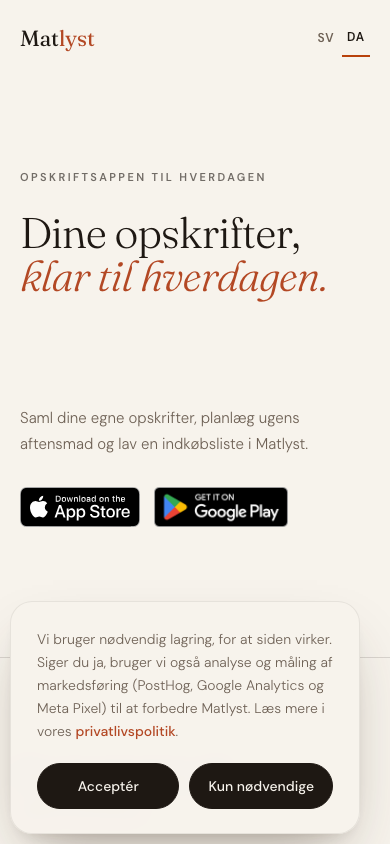
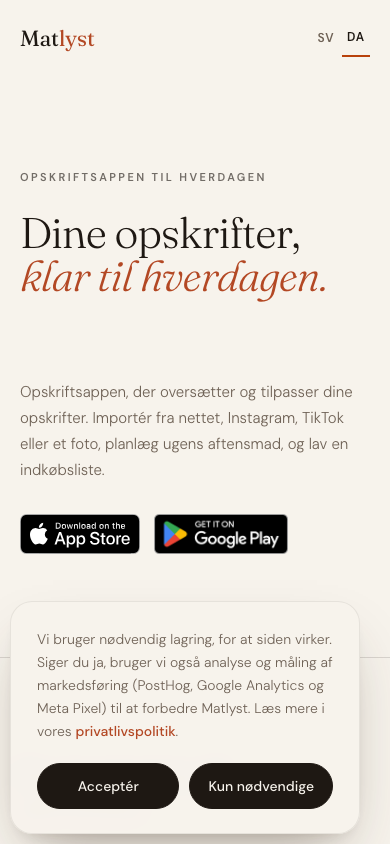
feat(landing): posisjonering på forsidene (nb, sv, da)
«Oppskriftsappen som oversetter og tilpasser oppskriftene dine» i ingress
og meta description, med naturlig tekst på svensk og dansk. Ingen
superlativer. Test for posisjonering og superlativer.

Claude-Session: https://claude.ai/code/session_014fDBte4NAnwCmAoPEN8Ebz

Changed region(s): [[0.0308, 0.4621, 0.8923, 0.6777]]

diff --git a/da/index.html b/da/index.html
@@ -4,28 +4,28 @@
 <meta charset="UTF-8">
 <meta name="viewport" content="width=device-width, initial-scale=1.0">
 <title>Opskriftsapp til hverdagen | Matlyst Danmark</title>
-<meta name="description" content="Saml dine egne opskrifter, planlæg ugens aftensmad og lav en indkøbsliste i Matlyst.">
+<meta name="description" content="Opskriftsappen, der oversætter og tilpasser dine opskrifter. Importér fra nettet, Instagram, TikTok eller et foto, planlæg ugens aftensmad, og lav en indkøbsliste.">
 <meta name="robots" content="index, follow">
 <link rel="canonical" href="https://matlyst-app.no/da/">
 <link rel="alternate" hreflang="sv-SE" href="https://matlyst-app.no/sv/">
 <link rel="alternate" hreflang="da-DK" href="https://matlyst-app.no/da/">
 <meta name="theme-color" content="#F7F3EC">
 <meta property="og:title" content="Opskriftsapp til hverdagen | Matlyst Danmark">
-<meta property="og:description" content="Saml dine egne opskrifter, planlæg ugens aftensmad og lav en indkøbsliste i Matlyst.">
+<meta property="og:description" content="Opskriftsappen, der oversætter og tilpasser dine opskrifter. Importér fra nettet, Instagram, TikTok eller et foto, planlæg ugens aftensmad, og lav en indkøbsliste.">
 <meta property="og:image" content="https://matlyst-app.no/images/og.jpg">
-<meta property="og:image:alt" content="Saml dine egne opskrifter, planlæg ugens aftensmad og lav en indkøbsliste i Matlyst.">
+<meta property="og:image:alt" content="Opskriftsappen, der oversætter og tilpasser dine opskrifter. Importér fra nettet, Instagram, TikTok eller et foto, planlæg ugens aftensmad, og lav en indkøbsliste.">
 <meta property="og:url" content="https://matlyst-app.no/da/">
 <meta property="og:type" content="website">
 <meta property="og:site_name" content="Matlyst">
 <meta property="og:locale" content="da_DK">
 <meta name="twitter:card" content="summary_large_image">
 <meta name="twitter:title" content="Opskriftsapp til hverdagen | Matlyst Danmark">
-<meta name="twitter:description" content="Saml dine egne opskrifter, planlæg ugens aftensmad og lav en indkøbsliste i Matlyst.">
+<meta name="twitter:description" content="Opskriftsappen, der oversætter og tilpasser dine opskrifter. Importér fra nettet, Instagram, TikTok eller et foto, planlæg ugens aftensmad, og lav en indkøbsliste.">
 <meta name="twitter:image" content="https://matlyst-app.no/images/og.jpg">
-<meta name="twitter:image:alt" content="Saml dine egne opskrifter, planlæg ugens aftensmad og lav en indkøbsliste i Matlyst.">
+<meta name="twitter:image:alt" content="Opskriftsappen, der oversætter og tilpasser dine opskrifter. Importér fra nettet, Instagram, TikTok eller et foto, planlæg ugens aftensmad, og lav en indkøbsliste.">
 <link rel="icon" type="image/png" href="/images/icon.png">
 <link rel="stylesheet" href="/styles.css">
-<script type="application/ld+json">{"@context":"https://schema.org","@type":"SoftwareApplication","name":"Matlyst","applicationCategory":"LifestyleApplication","operatingSystem":"iOS, Android","description":"Saml dine egne opskrifter, planlæg ugens aftensmad og lav en indkøbsliste i Matlyst.","url":"https://matlyst-app.no/da/"}</script>
+<script type="application/ld+json">{"@context":"https://schema.org","@type":"SoftwareApplication","name":"Matlyst","applicationCategory":"LifestyleApplication","operatingSystem":"iOS, Android","description":"Opskriftsappen, der oversætter og tilpasser dine opskrifter. Importér fra nettet, Instagram, TikTok eller et foto, planlæg ugens aftensmad, og lav en indkøbsliste.","url":"https://matlyst-app.no/da/"}</script>
 <script src="/locale.js"></script>
 </head><body data-locale="da">
 <a class="skip-link" href="#hovedinnhold">Spring til indholdet</a>
@@ -43,7 +43,7 @@
 <header class="hero locale-home-hero" data-section="hero">
   <div><p class="eyebrow hero-eyebrow">Opskriftsappen til hverdagen</p>
   <h1 class="disp">Dine opskrifter,<br><span class="it">klar til hverdagen.</span></h1></div>
-  <div class="hero-side"><p class="lead">Saml dine egne opskrifter, planlæg ugens aftensmad og lav en indkøbsliste i Matlyst.</p><div class="store-badges">
+  <div class="hero-side"><p class="lead">Opskriftsappen, der oversætter og tilpasser dine opskrifter. Importér fra nettet, Instagram, TikTok eller et foto, planlæg ugens aftensmad, og lav en indkøbsliste.</p><div class="store-badges">
 <a class="btn-store" href="https://apps.apple.com/dk/app/matlyst/id6762563515" rel="noopener"><img src="/images/appstore-badge.svg" alt="Download on the App Store"></a>
 <a class="btn-store" href="https://play.google.com/store/apps/details?id=app.matlyst&hl=da&gl=DK" rel="noopener"><img src="/images/googleplay-badge-en.png" alt="Get it on Google Play"></a>
 </div></div>

diff --git a/sv/index.html b/sv/index.html
@@ -4,28 +4,28 @@
 <meta charset="UTF-8">
 <meta name="viewport" content="width=device-width, initial-scale=1.0">
 <title>Receptapp för vardagen | Matlyst Sverige</title>
-<meta name="description" content="Samla egna recept, planera veckans middagar och gör en inköpslista i Matlyst.">
+<meta name="description" content="Receptappen som översätter och anpassar dina recept. Importera från webben, Instagram, TikTok eller ett foto, planera veckans middagar och gör en inköpslista.">
 <meta name="robots" content="index, follow">
 <link rel="canonical" href="https://matlyst-app.no/sv/">
 <link rel="alternate" hreflang="sv-SE" href="https://matlyst-app.no/sv/">
 <link rel="alternate" hreflang="da-DK" href="https://matlyst-app.no/da/">
 <meta name="theme-color" content="#F7F3EC">
 <meta property="og:title" content="Receptapp för vardagen | Matlyst Sverige">
-<meta property="og:description" content="Samla egna recept, planera veckans middagar och gör en inköpslista i Matlyst.">
+<meta property="og:description" content="Receptappen som översätter och anpassar dina recept. Importera från webben, Instagram, TikTok eller ett foto, planera veckans middagar och gör en inköpslista.">
 <meta property="og:image" content="https://matlyst-app.no/images/og.jpg">
-<meta property="og:image:alt" content="Samla egna recept, planera veckans middagar och gör en inköpslista i Matlyst.">
+<meta property="og:image:alt" content="Receptappen som översätter och anpassar dina recept. Importera från webben, Instagram, TikTok eller ett foto, planera veckans middagar och gör en inköpslista.">
 <meta property="og:url" content="https://matlyst-app.no/sv/">
 <meta property="og:type" content="website">
 <meta property="og:site_name" content="Matlyst">
 <meta property="og:locale" content="sv_SE">
 <meta name="twitter:card" content="summary_large_image">
 <meta name="twitter:title" content="Receptapp för vardagen | Matlyst Sverige">
-<meta name="twitter:description" content="Samla egna recept, planera veckans middagar och gör en inköpslista i Matlyst.">
+<meta name="twitter:description" content="Receptappen som översätter och anpassar dina recept. Importera från webben, Instagram, TikTok eller ett foto, planera veckans middagar och gör en inköpslista.">
 <meta name="twitter:image" content="https://matlyst-app.no/images/og.jpg">
-<meta name="twitter:image:alt" content="Samla egna recept, planera veckans middagar och gör en inköpslista i Matlyst.">
+<meta name="twitter:image:alt" content="Receptappen som översätter och anpassar dina recept. Importera från webben, Instagram, TikTok eller ett foto, planera veckans middagar och gör en inköpslista.">
 <link rel="icon" type="image/png" href="/images/icon.png">
 <link rel="stylesheet" href="/styles.css">
-<script type="application/ld+json">{"@context":"https://schema.org","@type":"SoftwareApplication","name":"Matlyst","applicationCategory":"LifestyleApplication","operatingSystem":"iOS, Android","description":"Samla egna recept, planera veckans middagar och gör en inköpslista i Matlyst.","url":"https://matlyst-app.no/sv/"}</script>
+<script type="application/ld+json">{"@context":"https://schema.org","@type":"SoftwareApplication","name":"Matlyst","applicationCategory":"LifestyleApplication","operatingSystem":"iOS, Android","description":"Receptappen som översätter och anpassar dina recept. Importera från webben, Instagram, TikTok eller ett foto, planera veckans middagar och gör en inköpslista.","url":"https://matlyst-app.no/sv/"}</script>
 <script src="/locale.js"></script>
 </head><body data-locale="sv">
 <a class="skip-link" href="#hovedinnhold">Hoppa till innehållet</a>
@@ -43,7 +43,7 @@
 <header class="hero locale-home-hero" data-section="hero">
   <div><p class="eyebrow hero-eyebrow">Receptappen för vardagen</p>
   <h1 class="disp">Recepten du sparar,<br><span class="it">klara för vardagen.</span></h1></div>
-  <div class="hero-side"><p class="lead">Samla egna recept, planera veckans middagar och gör en inköpslista i Matlyst.</p><div class="store-badges">
+  <div class="hero-side"><p class="lead">Receptappen som översätter och anpassar dina recept. Importera från webben, Instagram, TikTok eller ett foto, planera veckans middagar och gör en inköpslista.</p><div class="store-badges">
 <a class="btn-store" href="https://apps.apple.com/se/app/matlyst/id6762563515" rel="noopener"><img src="/images/appstore-badge.svg" alt="Download on the App Store"></a>
 <a class="btn-store" href="https://play.google.com/store/apps/details?id=app.matlyst&hl=sv&gl=SE" rel="noopener"><img src="/images/googleplay-badge-en.png" alt="Get it on Google Play"></a>
 </div></div>

diff --git a/index.html b/index.html
@@ -5,12 +5,12 @@
 <meta name="viewport" content="width=device-width, initial-scale=1.0">
 <meta name="facebook-domain-verification" content="n8gdqjhrbrimaux8ejsfmkyzo7zwhw" />
 <title>Matlyst — Oppskrifter du faktisk lager</title>
-<meta name="description" content="Importer oppskrifter fra en lenke, en video eller et bilde, også håndskrevne. Matlyst oversetter til norsk, planlegger uka og lar handlelista skrive seg selv. Ingen reklame, ingen salg av data. Gratis å prøve på App Store og Google Play.">
+<meta name="description" content="Oppskriftsappen som oversetter og tilpasser oppskriftene dine. Importer fra en lenke, en video eller et bilde, også håndskrevne, planlegg uka og la handlelista skrive seg selv. Ingen reklame, ingen salg av data. Gratis å prøve på App Store og Google Play.">
 <link rel="canonical" href="https://matlyst-app.no/">
 <meta name="theme-color" content="#F7F3EC">
 <meta name="apple-itunes-app" content="app-id=6762563515">
 <meta property="og:title" content="Matlyst — Oppskrifter du faktisk lager">
-<meta property="og:description" content="Importer fra en lenke, en video eller et bilde av en håndskrevet oppskrift. Planlegg uka og la handlelista skrive seg selv. Gratis å prøve.">
+<meta property="og:description" content="Oppskriftsappen som oversetter og tilpasser oppskriftene dine. Importer fra en lenke, en video eller et bilde av en håndskrevet oppskrift. Planlegg uka og la handlelista skrive seg selv. Gratis å prøve.">
 <meta property="og:image" content="https://matlyst-app.no/images/og.jpg">
 <meta property="og:url" content="https://matlyst-app.no/">
 <meta property="og:type" content="website">
@@ -18,7 +18,7 @@
 <meta property="og:locale" content="nb_NO">
 <meta name="twitter:card" content="summary_large_image">
 <meta name="twitter:title" content="Matlyst — Oppskrifter du faktisk lager">
-<meta name="twitter:description" content="Importer fra en lenke, en video eller et bilde av en håndskrevet oppskrift. Planlegg uka og la handlelista skrive seg selv.">
+<meta name="twitter:description" content="Oppskriftsappen som oversetter og tilpasser oppskriftene dine. Importer fra en lenke, en video eller et bilde av en håndskrevet oppskrift. Planlegg uka og la handlelista skrive seg selv.">
 <meta name="twitter:image" content="https://matlyst-app.no/images/og.jpg">
 <link rel="icon" type="image/png" href="images/icon.png">
 <script type="application/ld+json">
@@ -60,7 +60,7 @@
     <h1 class="disp"><span class="a">Oppskriftene</span><br><span class="a">dine, <span class="it">samlet</span>.</span></h1>
   </div>
   <div class="hero-side">
-    <p class="lead">Importer fra en lenke, en video eller et bilde — ta til og med bilde av en håndskrevet oppskrift. Matlyst henter oppskriften, oversetter til norsk, og lar handlelista skrive seg selv.</p>
+    <p class="lead">Oppskriftsappen som oversetter og tilpasser oppskriftene dine. Importer fra en lenke, en video eller et bilde, også av en håndskrevet oppskrift. Matlyst henter oppskriften, oversetter den til norsk og lar handlelista skrive seg selv.</p>
     <div class="hero-actions">
       <div class="store-badges">
         <a class="btn-store" href="https://apps.apple.com/no/app/matlyst/id6762563515" target="_blank" rel="noopener">
